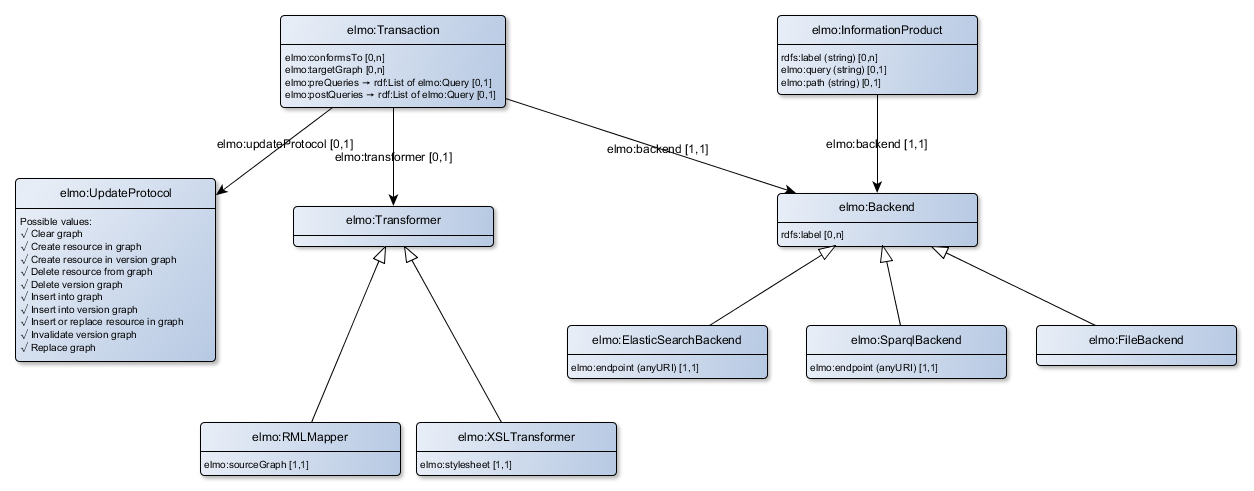
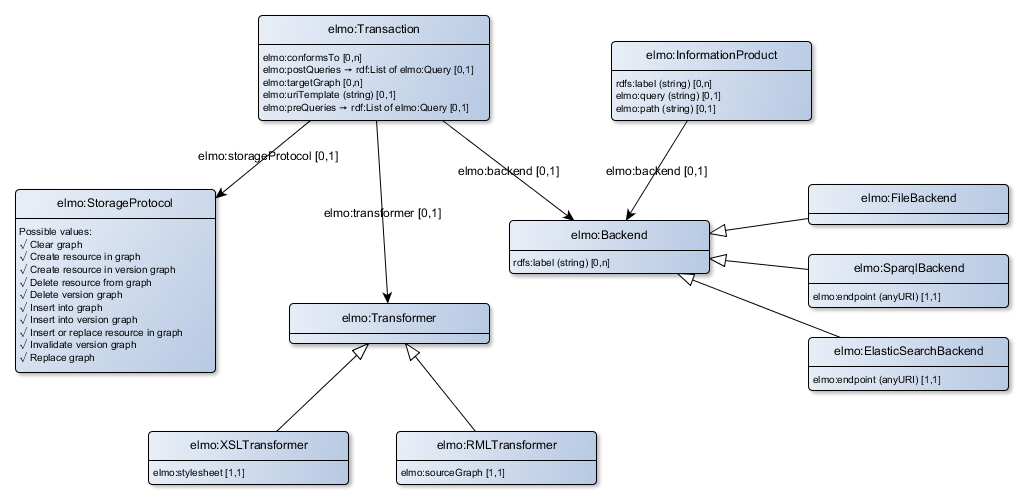
Made last changes and updated examples and diagrams

diff --git a/vocabulary/README.md b/vocabulary/README.md
@@ -38,7 +38,7 @@ The picture below gives a visual representation of the elmo vocabulary with resp
 
 Shape validation (as stated with `elmo:conformsTo`) is performed against the data submitted as part of the request. Prequeries are performed against the in-memory dataset. Prequeries are specified as a rdf:List of elmo:Queries. This means that more than one query can be executed in the specified order. The language of the prequeries should be SPARQL Update. PostQueries are performed against the backend persistancy, and are also specified as a rdf:List of elmo:Queries. The language for the postqueries depends on the particular backend that is used.
 
-Via `elmo:storageProtocol` you specify which kind of update protocol is used to manipulate the persistancy store. The following update protocols are available:
+Via `elmo:storageProtocol` you specify which kind of storage protocol is used to manipulate the persistancy store. The following storage protocols are available:
 
 - `elmo-up:DeleteGraph`: clears the content of the target graph;
 - `elmo-up:ReplaceGraph`: replaces the content of the target graph with the content of the transaction dataset;
